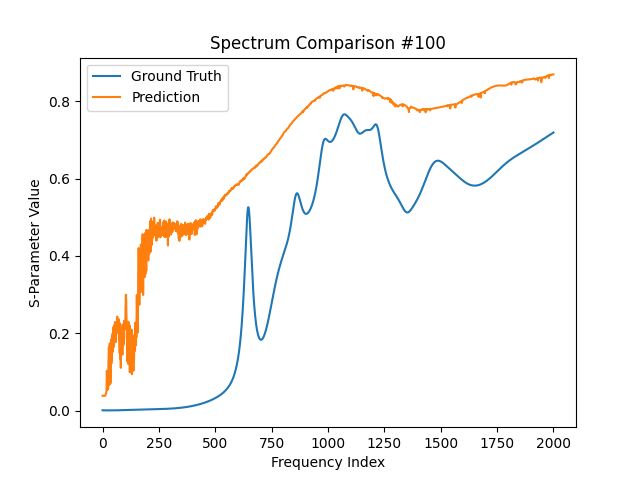
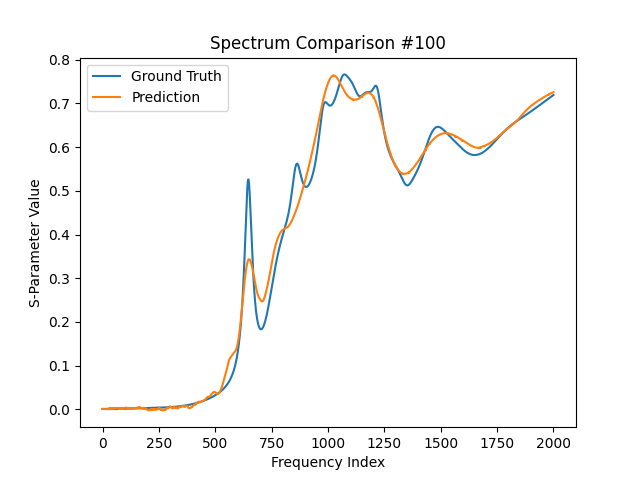
updated

diff --git a/train.py b/train.py
@@ -1,5 +1,3 @@
-# train.py
-
 import torch
 import numpy as np
 import pandas as pd
@@ -12,7 +10,7 @@ from sklearn.model_selection import train_test_split
 
 
 def main():
-    # Load data
+    # === Load dataset ===
     data_x = pd.read_csv(
         f"{parameters.data_dir}/ADM/data_g.csv", header=None
     ).values.astype(np.float32)
@@ -20,41 +18,41 @@ def main():
         f"{parameters.data_dir}/ADM/data_s.csv", header=None
     ).values.astype(np.float32)
 
-    print(f"\nLoaded data")
-    print(f" Shape of data_x: {data_x.shape}")
-    print(f" Shape of data_y: {data_y.shape}")
+    print("\n✅ Data loaded:")
+    print(f" 🔹 data_x shape: {data_x.shape}")
+    print(f" 🔹 data_y shape: {data_y.shape}")
 
-    # ✅ Normalize inputs
+    # === Normalize inputs and outputs ===
     data_x, x_max, x_min = normalize(data_x)
-
     data_y, y_max, y_min = normalize_spectrum_columnwise(data_y)
 
+    # === Save normalization parameters ===
     norm_dir = os.path.join(parameters.output_dir, "normalization")
     os.makedirs(norm_dir, exist_ok=True)
     np.save(os.path.join(norm_dir, "x_max.npy"), x_max)
     np.save(os.path.join(norm_dir, "x_min.npy"), x_min)
     np.save(os.path.join(norm_dir, "y_max.npy"), y_max)
     np.save(os.path.join(norm_dir, "y_min.npy"), y_min)
+    print("✅ Normalization parameters saved.")
 
-    print("Normalization parameters saved.")
-
-    # Split into train and validation
+    # === Train-validation split ===
     train_x, val_x, train_y, val_y = train_test_split(
         data_x,
         data_y,
         test_size=parameters.TEST_RATIO,
         random_state=parameters.RAND_SEED,
     )
+    print(f"✅ Data split:")
+    print(f" 🔹 Training samples: {train_x.shape[0]}")
+    print(f" 🔹 Validation samples: {val_x.shape[0]}")
 
-    print(f"🔹 Training samples: {train_x.shape[0]}")
-    print(f"🔹 Validation samples: {val_x.shape[0]}")
-
-    # Create dataloaders
+    # === Create PyTorch DataLoaders ===
     train_loader, val_loader = create_dataloaders(
         train_x, train_y, val_x, val_y, parameters.BATCH_SIZE
     )
+    print("✅ DataLoaders ready.")
 
-    # Create and train the forward model
+    # === Create and train model ===
     model = ForwardModel(input_dim=data_x.shape[1], output_dim=data_y.shape[1])
     model.train(train_loader, val_loader)
 

diff --git a/model/transformer.py b/model/transformer.py
@@ -1,3 +1,5 @@
+# forward.py
+
 import torch
 import torch.nn as nn
 
@@ -24,21 +26,19 @@ class TransformerForwardModel(nn.Module):
             num_layers (int): Number of Transformer encoder layers
             num_heads (int): Number of attention heads
             dropout (float): Dropout probability
-            ff_dim (int): Hidden size in feedforward network (defaults to 2048)
+            ff_dim (int): Hidden size in feedforward network
             use_positional_encoding (bool): Whether to add learnable positional encoding
         """
         super().__init__()
 
         self.input_proj = nn.Linear(input_dim, hidden_dim)
 
-        # Optional positional encoding
         self.use_positional_encoding = use_positional_encoding
         if use_positional_encoding:
             self.positional_encoding = nn.Parameter(torch.zeros(1, 1, hidden_dim))
         else:
             self.register_parameter("positional_encoding", None)
 
-        # Transformer encoder stack
         encoder_layer = nn.TransformerEncoderLayer(
             d_model=hidden_dim,
             nhead=num_heads,
@@ -48,21 +48,11 @@ class TransformerForwardModel(nn.Module):
         )
         self.transformer = nn.TransformerEncoder(encoder_layer, num_layers=num_layers)
 
-        # Output projection to spectrum
         self.output_proj = nn.Linear(hidden_dim, output_dim)
 
     def forward(self, x: torch.Tensor) -> torch.Tensor:
-        """
-        Forward pass through the transformer model.
-
-        Args:
-            x (Tensor): Input tensor of shape [batch_size, input_dim]
-
-        Returns:
-            Tensor: Output predictions [batch_size, output_dim]
-        """
         x = self.input_proj(x).unsqueeze(1)  # Shape: [B, 1, H]
         if self.use_positional_encoding:
-            x = x + self.positional_encoding  # Broadcasting
+            x = x + self.positional_encoding  # Add learnable positional encoding
         x = self.transformer(x).squeeze(1)  # Shape: [B, H]
         return self.output_proj(x)  # Shape: [B, output_dim]

diff --git a/utils/normalization.py b/utils/normalization.py
@@ -1,10 +1,5 @@
-# normalization.py
-
 import numpy as np
 
-# -------------------------------
-# ✅ INPUT NORMALIZATION (features like geometry)
-# -------------------------------
 
 def normalize(x):
     """Symmetric input normalization: [-1, 1] range."""
@@ -15,10 +10,11 @@ def normalize(x):
     x_norm = (x - x_avg) / (x_range + 1e-12)
 
     for i in range(x.shape[1]):
-        print(f"In normalize_np, row {i}  your max is: {x_max[i]}")
-        print(f"In normalize_np, row {i}  your min is: {x_min[i]}")
-    
+        print(f"In normalize_np, row {i} your max is: {x_max[i]}")
+        print(f"In normalize_np, row {i} your min is: {x_min[i]}")
+
     return x_norm, x_max, x_min
+
 
 def apply_normalization(x, x_max, x_min):
     """Apply same normalization parameters to new data."""
@@ -26,6 +22,7 @@ def apply_normalization(x, x_max, x_min):
     x_avg = (x_max + x_min) / 2.0
     x_norm = (x - x_avg) / (x_range + 1e-12)
     return x_norm
+
 
 def unnormalize(y_norm, y_max, y_min):
     """Undo symmetric normalization to get real values."""
@@ -36,11 +33,15 @@ def unnormalize(y_norm, y_max, y_min):
 
 
 def normalize_spectrum_columnwise(y):
-    """Normalize spectrum per wavelength (column-wise), so global shape is preserved."""
-    y_min = np.min(y, axis=0)
+    """Normalize spectrum per wavelength (column-wise) to [-1, 1] range."""
     y_max = np.max(y, axis=0)
-    y_norm = (y - y_min) / (y_max - y_min + 1e-12)
+    y_min = np.min(y, axis=0)
+    y_range = (y_max - y_min) / 2.0
+    y_avg = (y_max + y_min) / 2.0
+    y_norm = (y - y_avg) / (y_range + 1e-12) 
+
     return y_norm, y_max, y_min
+
 
 def unnormalize_spectrum_columnwise(y_norm, y_max, y_min):
     """Unnormalize the predicted spectrum."""

diff --git a/model/mlp.py b/model/mlp.py
@@ -5,14 +5,11 @@ from model.parameters import DROPOUT
 
 class MLP(nn.Module):
     def __init__(
-        self, linear_layers, dropout=DROPOUT, skip_connection=True, skip_head=0
+        self, linear_layers, dropout=DROPOUT, skip_connection=False, skip_head=0
     ):
         super(MLP, self).__init__()
-        self.linear_layers = linear_layers
-        self.skip_connection = skip_connection
-        self.skip_head = skip_head
+        self.activation = nn.LeakyReLU()
         self.dropout = nn.Dropout(p=dropout)
-        self.activation = nn.GELU()  # ✅ GELU activation
 
         self.linears = nn.ModuleList(
             [
@@ -20,7 +17,6 @@ class MLP(nn.Module):
                 for i in range(len(linear_layers) - 1)
             ]
         )
-
         self.bns = nn.ModuleList(
             [
                 nn.BatchNorm1d(linear_layers[i + 1])
@@ -30,18 +26,10 @@ class MLP(nn.Module):
 
     def forward(self, x):
         out = x
-        identity = None
         for i in range(len(self.linears)):
             out = self.linears[i](out)
-            if i < len(self.bns):  # Skip BN + GELU + Dropout for last layer
+            if i < len(self.bns):
                 out = self.bns[i](out)
-                out = self.activation(out)  # ✅ GELU instead of ReLU
+                out = self.activation(out)
                 out = self.dropout(out)
-
-                if self.skip_connection:
-                    if i == self.skip_head:
-                        identity = out
-                    elif identity is not None and (i - self.skip_head) % 2 == 0:
-                        out = out + identity
-                        identity = out
         return out

diff --git a/model/forward.py b/model/forward.py
@@ -20,8 +20,8 @@ class ForwardModel:
             self.model = MLP(
                 linear_layers=parameters.LINEAR,
                 dropout=parameters.DROPOUT,
-                skip_connection=True,
-                skip_head=2,
+                skip_connection=parameters.SKIP_CONNECTION,
+                skip_head=parameters.SKIP_HEAD,
             )
         elif parameters.MODEL_TYPE == "Transformer":
             self.model = TransformerForwardModel(
@@ -43,10 +43,12 @@ class ForwardModel:
             lr=parameters.LEARN_RATE,
             weight_decay=parameters.REG_SCALE,
         )
-        self.scheduler = torch.optim.lr_scheduler.StepLR(
+        self.scheduler = torch.optim.lr_scheduler.ReduceLROnPlateau(
             self.optimizer,
-            step_size=parameters.EVAL_STEP,
-            gamma=parameters.LR_DECAY_RATE,
+            mode="min",
+            factor=parameters.LR_DECAY_RATE,
+            patience=10,
+            verbose=True,
         )
 
         self.best_loss = float("inf")
@@ -77,7 +79,6 @@ class ForwardModel:
                 self.optimizer.step()
                 total_loss += loss.item()
 
-            self.scheduler.step()
             avg_loss = total_loss / len(train_loader)
             print(
                 f"Step [{step+1}/{parameters.TRAIN_STEP}] - Train Loss: {avg_loss:.6f}"
@@ -89,6 +90,8 @@ class ForwardModel:
 
                 training_losses.append(avg_loss)
                 validation_losses.append(val_loss)
+
+                self.scheduler.step(val_loss)  # <-- Updated for ReduceLROnPlateau
 
                 if val_loss < self.best_loss:
                     self.best_loss = val_loss

diff --git a/model/parameters.py b/model/parameters.py
@@ -1,6 +1,5 @@
 import torch
 
-# ========== Dataset ==========
 data_dir = "./data"
 output_dir = "./results"
 DATA_SET = "ADM"
@@ -10,41 +9,27 @@ GEOBOUNDARY = [0.3, 0.6, 1, 1.5, 0.1, 0.2, -0.7864, 0.7864]
 NORMALIZE_INPUT = True
 NORMALIZE_OUTPUT = True
 
-# ========== Model ==========
 MODEL_TYPE = "MLP"
-LINEAR = [14, 2000, 2000, 2000, 2000, 2000, 2000, 2000, 2000, 2000, 2000, 2001]
-DROPOUT = 0.2
-SKIP_CONNECTION = True
+LINEAR = [14, 500, 500, 500, 500, 500, 500, 2001]
+DROPOUT = 0.0
+SKIP_CONNECTION = False
 SKIP_HEAD = 1
 PLOT_TRAINING_CURVE = True
 
-# ========== Transformer Configuration ==========
-HIDDEN_DIM = 512
-TRANSFORMER_LAYERS = 4
-TRANSFORMER_HEADS = 8
-FF_DIM = 2048
-DROPOUT_RATE = 0.2
-USE_POSITIONAL_ENCODING = True
-
-# ========== Training Hyperparameters ==========
-OPTIM = "AdamW"  # Better regularization than Adam
-LEARN_RATE = 1e-3
-LR_DECAY_RATE = 0.9  # Slight decay to help generalization
+OPTIM = "Adam"
+LEARN_RATE = 1e-4
+LR_DECAY_RATE = 0.9 
 REG_SCALE = 1e-4
 BATCH_SIZE = 256
-TRAIN_STEP = 500
-EVAL_STEP = 1
-EARLY_STOPPING_PATIENCE = 50
-STOP_THRESHOLD = 1e-6  # Reasonable convergence check
+TRAIN_STEP = 1000 
+EVAL_STEP = 10
+EARLY_STOPPING_PATIENCE = 100
+STOP_THRESHOLD = 1e-6
 
-# ========== Validation Split ==========
 TEST_RATIO = 0.2
-
-# ========== Reproducibility ==========
 RAND_SEED = 1
 torch.manual_seed(RAND_SEED)
 
-# ========== Evaluation Settings ==========
 USE_CPU_ONLY = False
 MODEL_NAME = None
 EVAL_MODEL = "ADM_paper"
